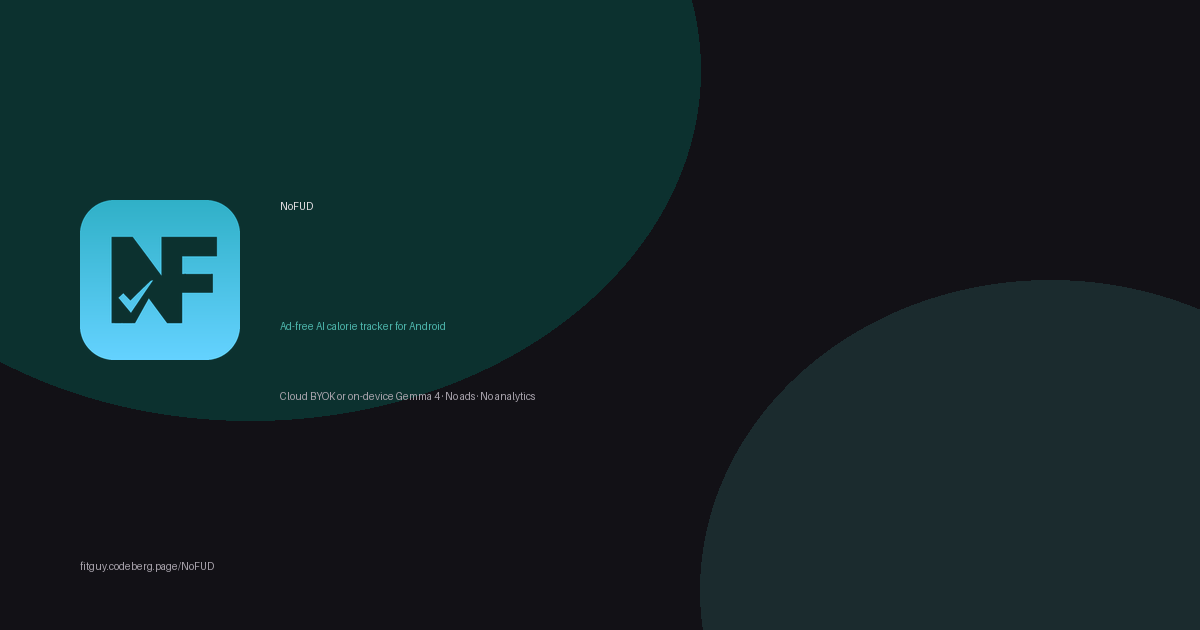
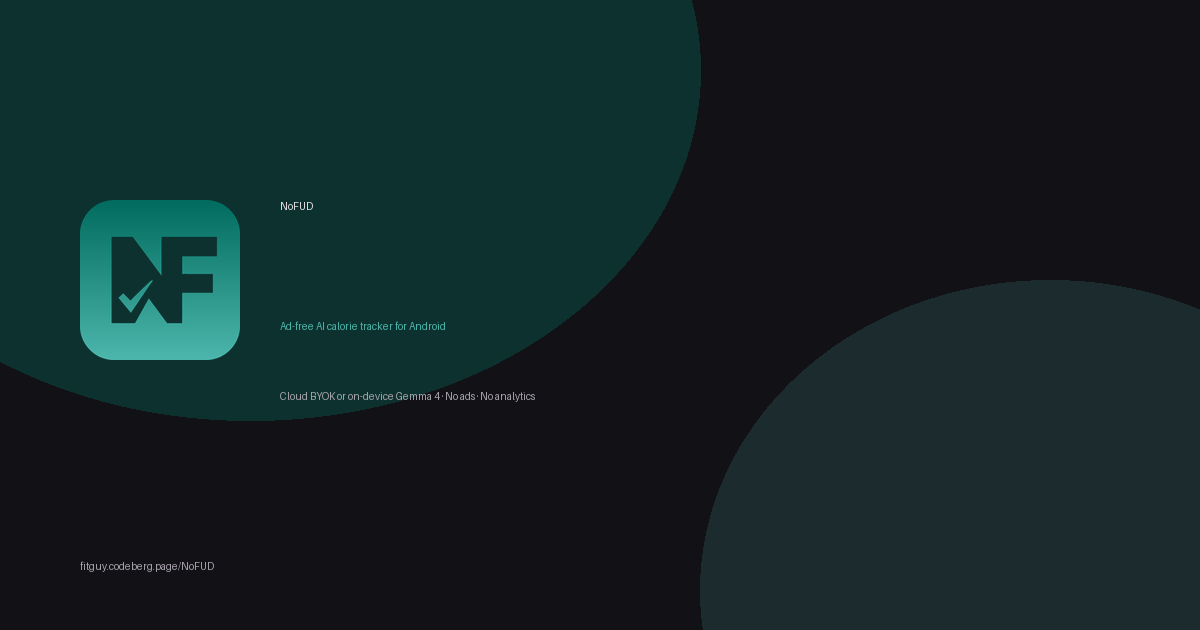
Update teal color scheme and associated assets
- Changed the teal color value in the launcher icon accent from `0xFF30B0C7` to `0xFF006B5E` for improved visual consistency.
- Updated various PNG assets related to the teal theme, including launcher icons and logos, to reflect the new color scheme.
- Adjusted the icon generation script to match the updated teal color values.

These changes enhance the overall aesthetic and branding of the application.

Changed region(s): [[0.0617, 0.3016, 0.2158, 0.573]]

diff --git a/android/app/src/main/java/org/codeberg/fitguy/nofud/ui/theme/Color.kt b/android/app/src/main/java/org/codeberg/fitguy/nofud/ui/theme/Color.kt
@@ -83,7 +83,7 @@ private data class LauncherIconAccent(
 
 /** Representative launcher-icon gradient colors from [scripts/generate_icons.py]. */
 private val LauncherIconAccents: List<LauncherIconAccent> = listOf(
-    LauncherIconAccent(AppThemeColor.TEAL, Color(0xFF30B0C7)),
+    LauncherIconAccent(AppThemeColor.TEAL, Color(0xFF006B5E)),
     LauncherIconAccent(AppThemeColor.BLUE, Color(0xFF0A84FF)),
     LauncherIconAccent(AppThemeColor.GREEN, Color(0xFF34C759)),
     LauncherIconAccent(AppThemeColor.PURPLE, Color(0xFFAF52DE)),

diff --git a/scripts/generate_icons.py b/scripts/generate_icons.py
@@ -27,7 +27,7 @@ THEMES: list[tuple[str, tuple[int, int, int], tuple[int, int, int], str | None]]
     ("_orange", (0xFF, 0x95, 0x00), (0xFF, 0xB3, 0x40), "ic_logo_orange.png"),
     ("_green", (0x34, 0xC7, 0x59), (0x62, 0xD4, 0x6F), "ic_logo_green.png"),
     ("_mint", (0x00, 0xC7, 0xBE), (0x66, 0xD4, 0xCF), "ic_logo_mint.png"),
-    ("_teal", (0x30, 0xB0, 0xC7), (0x64, 0xD2, 0xFF), "ic_logo_teal.png"),
+    ("_teal", (0x00, 0x6B, 0x5E), (0x4D, 0xB6, 0xAC), "ic_logo_teal.png"),
     ("_blue", (0x0A, 0x84, 0xFF), (0x5E, 0xAE, 0xFF), "ic_logo_blue.png"),
     ("_purple", (0xAF, 0x52, 0xDE), (0xBF, 0x5A, 0xF2), "ic_logo_purple.png"),
     ("_yellow", (0xFF, 0xCC, 0x00), (0xFF, 0xD6, 0x0A), None),
